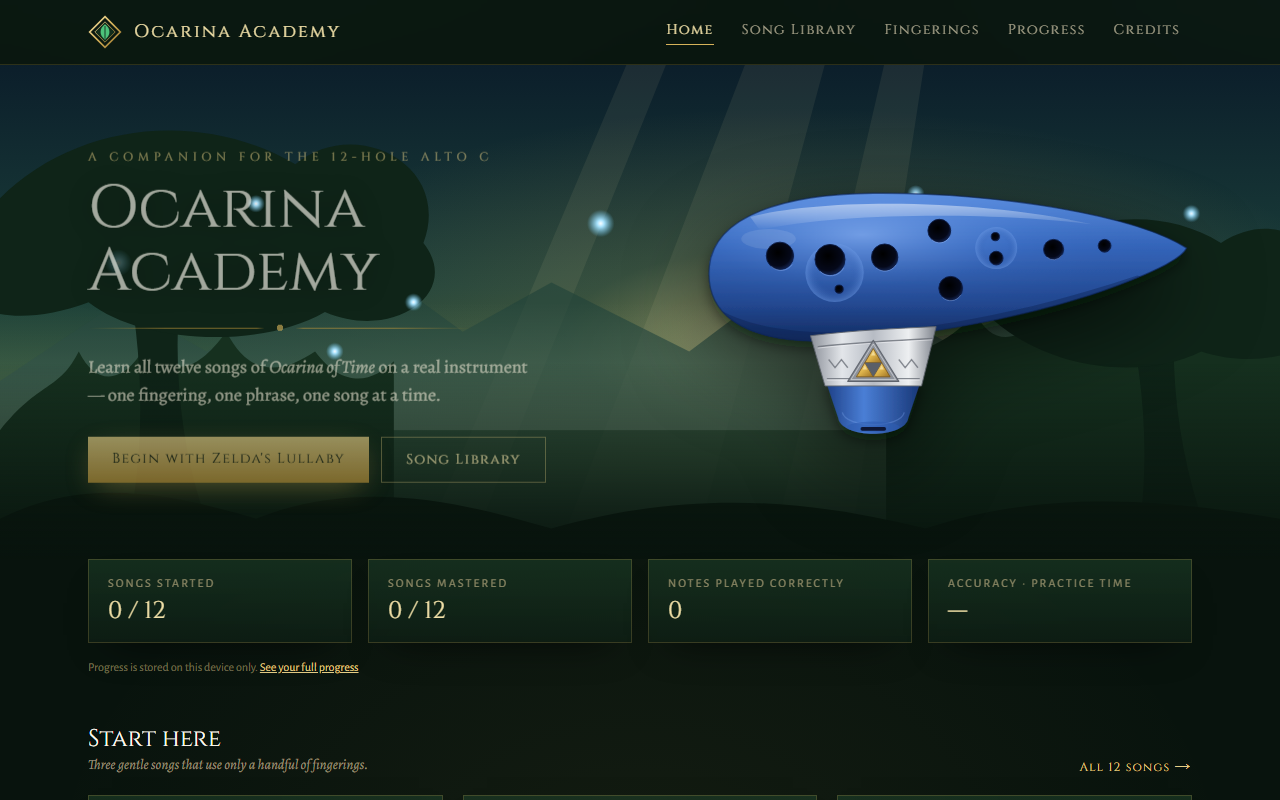
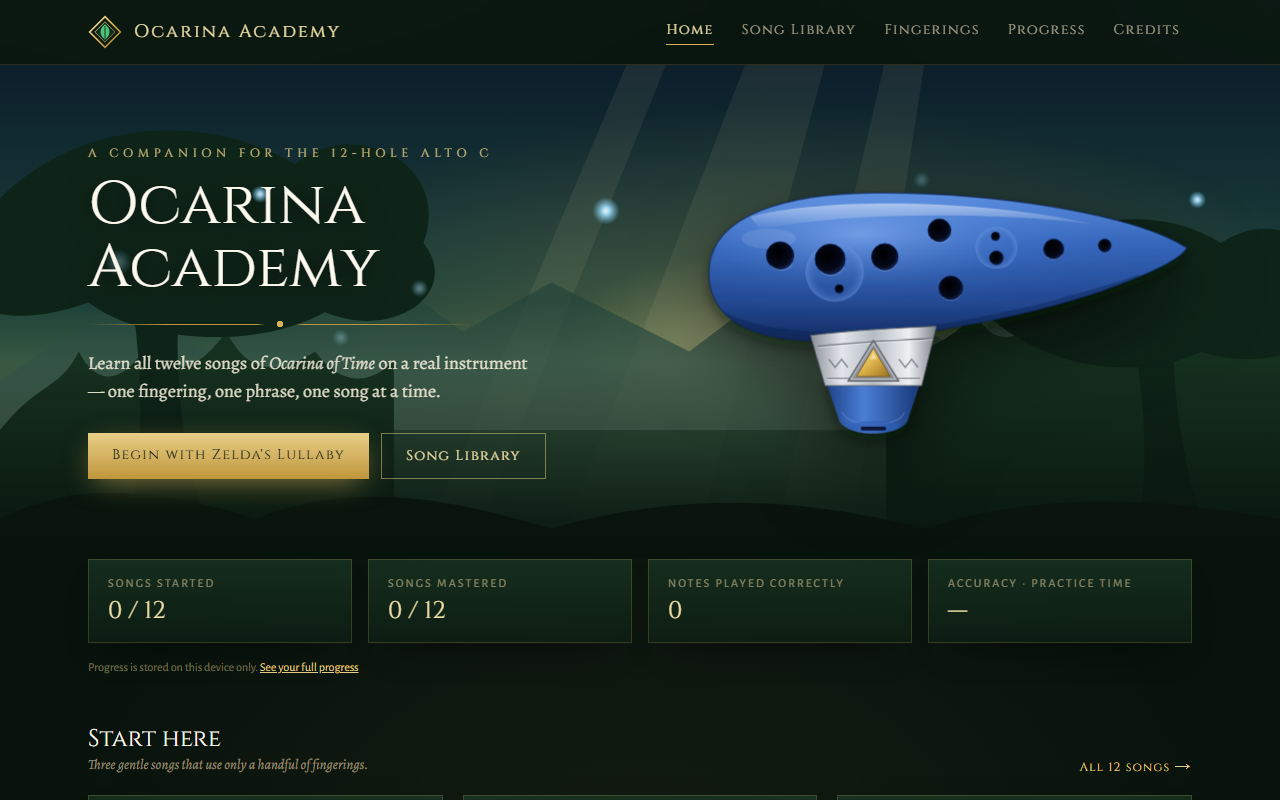
Replace the Triforce on the ocarina collar with a plain triangle
Retake the share image and README screenshots to match.

diff --git a/docs/ARCHITECTURE.md b/docs/ARCHITECTURE.md
@@ -2,8 +2,8 @@
 
 A personal, fan-made learning companion for playing the 12 songs of *Ocarina of Time*
 on a physical 12-hole Alto C ocarina. Not affiliated with Nintendo. No Nintendo
-artwork, models or audio are used; all art is original SVG. The Triforce on the replica collar is a
-Nintendo trademark, fine for personal use but worth revisiting before any public release.
+artwork, models or audio are used; all art is original SVG. The replica collar carries a plain gold triangle,
+not the Triforce (a Nintendo trademark).
 
 ---
 
